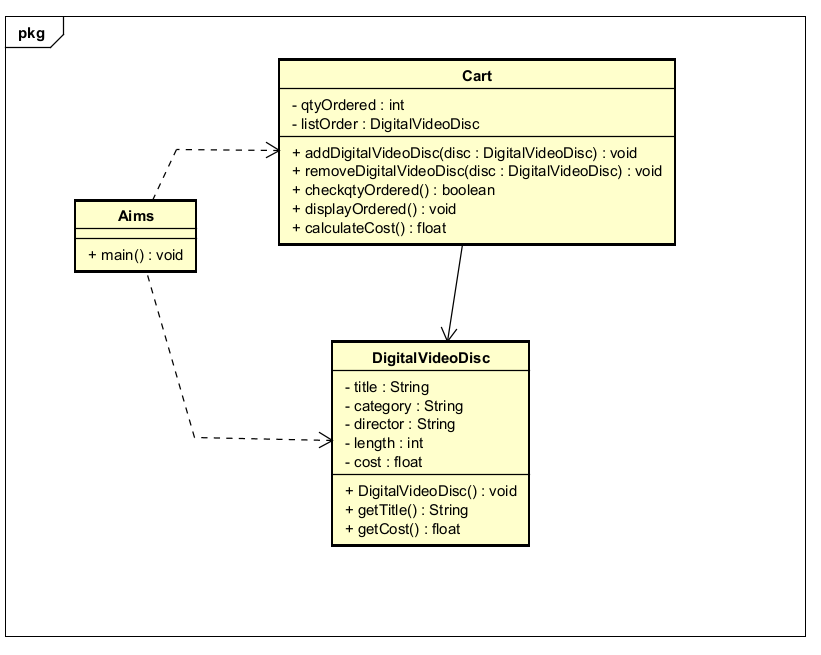
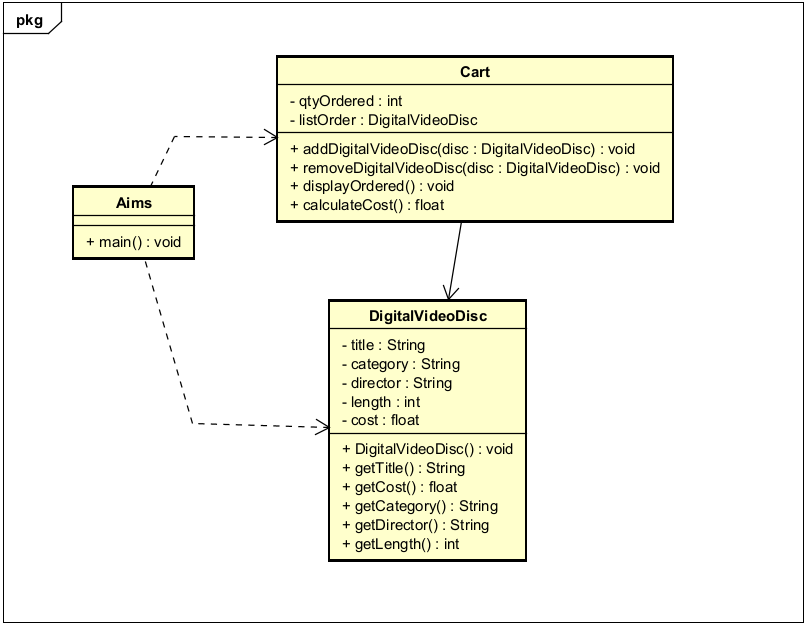
finish section 11

diff --git a/lab02/Design/code/AimsProject/src/Cart.java b/lab02/Design/code/AimsProject/src/Cart.java
@@ -1,0 +1,44 @@
+
+public class Cart {
+    public static final int MAX_NUMBERS_ORDERED = 20;
+    private DigitalVideoDisc itemsOrdered[] = new DigitalVideoDisc[MAX_NUMBERS_ORDERED];
+    private int qtyOrdered=0;
+    public void addDigitalVideoDisc(DigitalVideoDisc disc) {
+    	if(qtyOrdered<MAX_NUMBERS_ORDERED) {
+    		itemsOrdered[qtyOrdered]=disc;
+    		qtyOrdered+=1;
+    		System.out.println("The disc has been added");
+    		
+    	}
+    	else {
+    	System.out.println("The cart is almost full");
+    	}
+    	
+    }
+    public void removeDigitalVideoDisc(DigitalVideoDisc disc) {
+    	boolean found = false;
+    	for(int i=0;i<qtyOrdered;i++) {
+    		if(itemsOrdered[i].equals(disc)) {
+    			found = true;
+    			for(int j=i;j<qtyOrdered-1;j++) {
+    				itemsOrdered[j]=itemsOrdered[j+1];
+    			}
+    			itemsOrdered[qtyOrdered-1]=null;
+    			qtyOrdered--;
+    			System.out.println("The disc has been removed");
+    			break;
+    		}
+    	}
+    	if(!found) {
+    		System.out.println("The disc was not found in the cart");
+    	}
+    }
+    public float calculateCost() {
+    	float sum=0;
+    	for(int i=0;i<qtyOrdered;i++) {
+    		sum+=itemsOrdered[i].getCost();
+    	}
+    	return sum;
+    }
+    
+}
